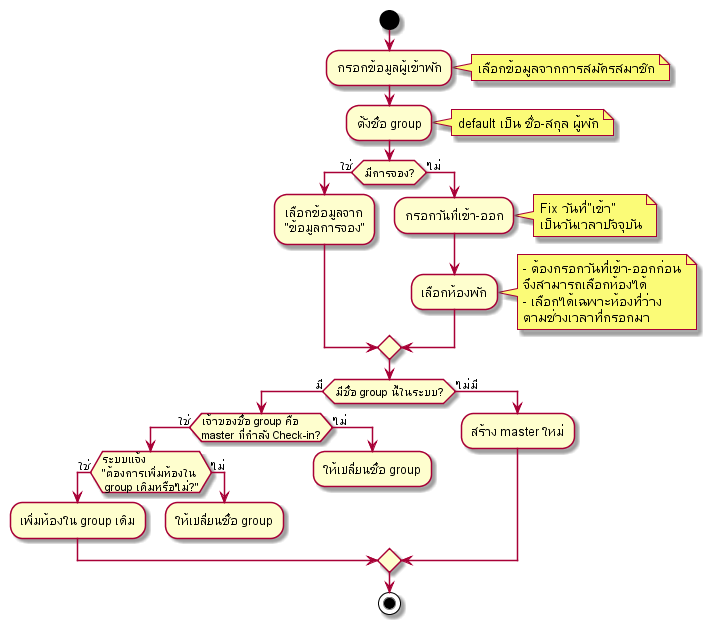
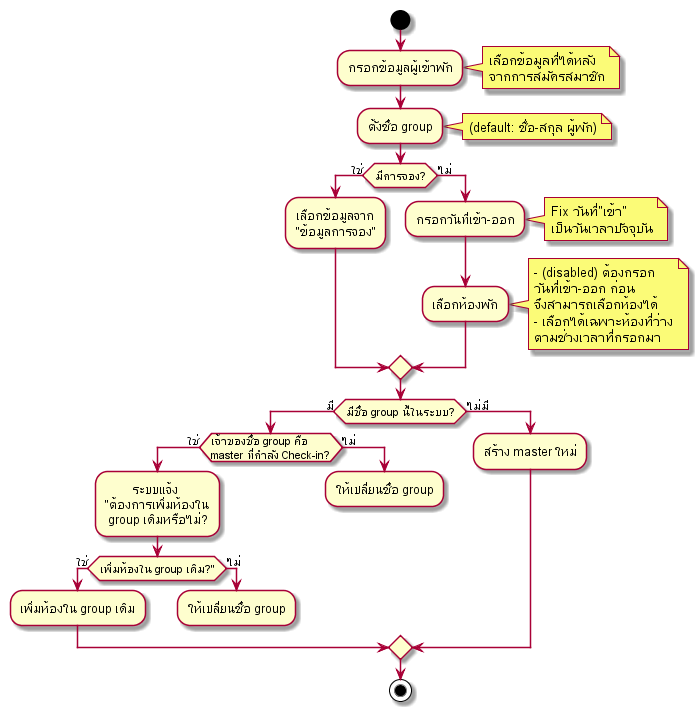
edit Check-in

Changed region(s): [[0.0, 0.0, 1.0, 1.0]]

diff --git a/activity-diagram/Check-in/Check-in.md b/activity-diagram/Check-in/Check-in.md
@@ -2,10 +2,13 @@
 start
 
 :กรอกข้อมูลผู้เข้าพัก;
-note right: เลือกข้อมูลจากการสมัครสมาชิก
+note right 
+    เลือกข้อมูลที่ได้หลัง
+    จากการสมัครสมาชิก
+endnote
 
 :ตั้งชื่อ group;
-note right: default เป็น ชื่อ-สกุล ผู้พัก
+note right: (default: ชื่อ-สกุล ผู้พัก)
 
 if (มีการจอง?) then (ใช่)
     :เลือกข้อมูลจาก\n"ข้อมูลการจอง";
@@ -18,7 +21,8 @@ else (ไม่)
 
     :เลือกห้องพัก;
     note right
-        - ต้องกรอกวันที่เข้า-ออกก่อน
+        - (disabled) ต้องกรอก
+        วันที่เข้า-ออก ก่อน
         จึงสามารถเลือกห้องได้
         - เลือกได้เฉพาะห้องที่ว่าง
         ตามช่วงเวลาที่กรอกมา
@@ -28,7 +32,8 @@ endif
   
 if (มีชื่อ group นี้ในระบบ?) then (มี)
     if (เจ้าของชื่อ group คือ\nmaster ที่กำลัง Check-in?) then (ใช่)
-        if (ระบบแจ้ง\n"ต้องการเพิ่มห้องใน\n group เดิมหรือไม่?") then (ใช่)
+        :         ระบบแจ้ง\n"ต้องการเพิ่มห้องใน\n group เดิมหรือไม่?;
+        if (เพิ่มห้องใน group เดิม?") then (ใช่)
         :เพิ่มห้องใน group เดิม;
         else (ไม่)
             :ให้เปลี่ยนชื่อ group;
